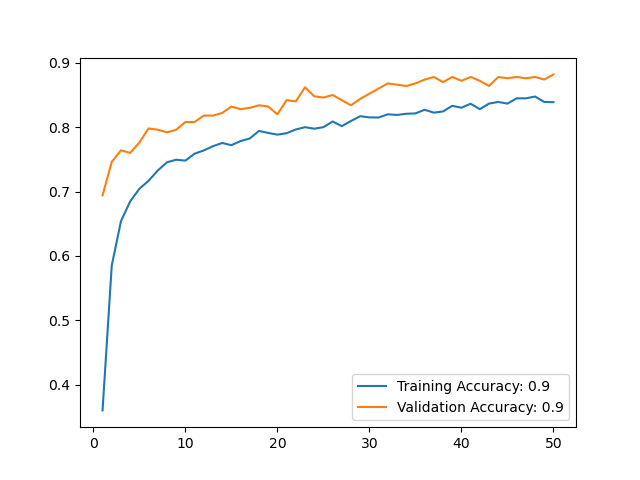
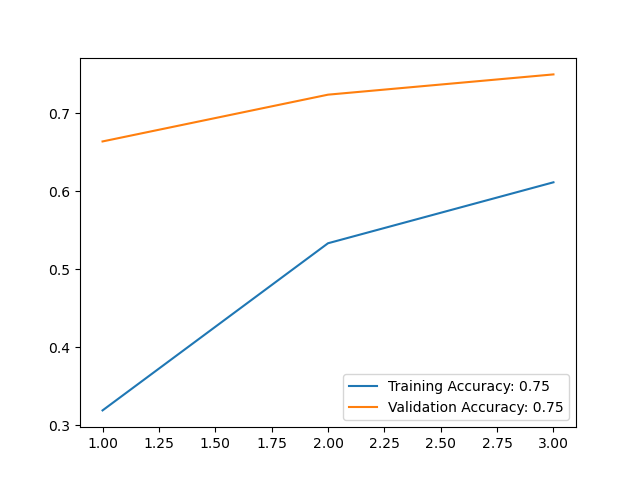
minor updates

diff --git a/basics/05_transfer_learning.py b/basics/05_transfer_learning.py
@@ -63,6 +63,7 @@ num_classes = get_num_subfolders(train_dir)
 print("real_num_train_samples: " + str(real_num_train_samples))
 print("real_num_validate_samples: " + str(real_num_validate_samples))
 print("num_classes: " + str(num_classes))
+print("")
 
 
 # Image generation (data augmentation)
@@ -74,8 +75,8 @@ train_generator = create_img_generator().flow_from_directory(
     train_dir,
     target_size=(image_width, image_height),
     batch_size=batch_size,
-    seed=42,
-    subset='training'  # 2 options: Training / Validation. This works if ImageDataGenerator.validation_split is set.
+    seed=42
+    #subset='training'  # 2 options: Training / Validation. This works if ImageDataGenerator.validation_split is set.
 )
 
 
@@ -117,7 +118,7 @@ for layer in inceptionV3_base_model.layers:
     layer.trainable = False
 
 # Compile
-#   We user categorical_crossentropy since our model is trying to classify categorical result
+#   We use categorical_crossentropy since our model is trying to classify categorical result
 model.compile(optimizer='adam', loss='categorical_crossentropy', metrics=['accuracy'])
 
 

diff --git a/basics/04_fashion_mnist.py b/basics/04_fashion_mnist.py
@@ -20,7 +20,7 @@ import matplotlib.pyplot as plt
 
 num_classes = 10;
 batch_size = 128;  # 128
-epochs = 50;  # 50
+epochs = 3;  # 50
 dropout = 0.8
 img_rows, img_cols = 28, 28;
 
@@ -129,6 +129,10 @@ print("Classification: " + str(prediction))
 
 # Print the model
 epoch_list = list(range(1, len(hist.history['accuracy']) + 1))
+print()
+print(epoch_list)
+print(len(hist.history['accuracy']))
+print(hist.history['accuracy'])
 plt.plot(epoch_list, hist.history['accuracy'], epoch_list, hist.history['val_accuracy'])
 plt.legend(('Training Accuracy: ' +  str(score_train[1]), 'Validation Accuracy: ' + str(score_test[1])))
 
